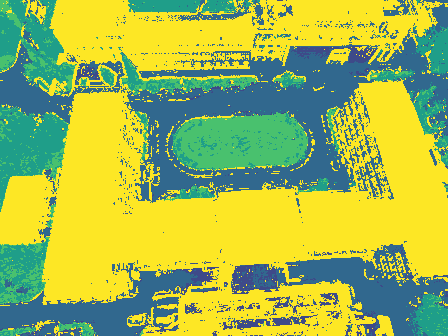
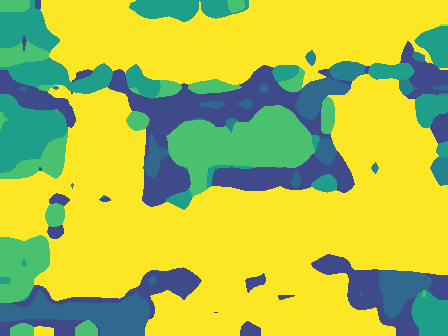
gaoding

diff --git a/dino_splat_ov/asset/vis3/1.html b/dino_splat_ov/asset/vis3/1.html
@@ -8,14 +8,14 @@
     .grid-wrap {
         margin: 0 auto;
         display: grid;
-        grid-template-columns: 1fr 1fr; 
+        grid-template-columns: 1fr 1fr 1fr;
         gap: 8px;
     }
 
     ul {
         list-style: none;
         display: grid;
-        grid-template-columns: 1fr 1fr;
+        grid-template-columns: 1fr 1fr 1fr;
         gap: 8px;
         padding: 0 10px;
 
@@ -43,8 +43,25 @@
 </style>
 
 <ul>
-    <li><p>Origin</p><img src="./P0492.png" alt=""></li>
-    <li><p>DINO.txt</p><img src="./dino_txt.png" alt=""></li>
-    <li><p>with TLP</p><img src="./w_lap.png" alt=""></li>
-    <li><p>with GSUP</p><img src="./w_gsup.png" alt=""></li>
+    <li>
+        <p>Origin</p><img src="./img3.jpg" alt="">
+    </li>
+    <li>
+        <p>baseline(MaskCLIP)</p><img src="./maskclip.png" alt="">
+    </li>
+    <li>
+        <p>w/ QQ && Debais(ClearCLIP)</p><img src="./w_qq.png" alt="">
+
+
+    <li>
+        <p>w/ ResQQ(Ours)</p><img src="./w_resqq.png" alt="">
+    </li>
+        </li>
+
+        <li>
+        <p>w/ SatUp(Ours)</p><img src="./w_satup.png" alt="">
+    </li>
+    <li>
+        <p>w/ CRF Refine</p><img src="./w_all.png" alt="">
+    </li>
 </ul>

diff --git a/model.py b/model.py
@@ -18,17 +18,15 @@ class CLIPResQQ(nn.Module):
         templates: List[str] = None,
         device: Union[str, torch.device] = "cuda" if torch.cuda.is_available() else "cpu",
         jit: bool = False,
-        only_clear: bool = False,
-        upsampler: str = "gfup",
+        upsampler: str = "gsup",
         # ResCLIP 相关参数
-        use_resclip: bool = True,
+        use_resclip: bool = False,
         resclip_alpha: float = 0.5,  # 残差融合权重
         resclip_layer: int = -2,     # 提取中间层 (-2 表示倒数第二层)
     ):
         super().__init__()
         self.device = torch.device(device)
         self.model_name = name
-        self.only_clear = only_clear
         self.use_resclip = use_resclip
         self.resclip_alpha = resclip_alpha
         self.resclip_layer = resclip_layer
@@ -63,7 +61,7 @@ class CLIPResQQ(nn.Module):
             ckpt = torch.load("satup.pth", map_location=self.device)
             self.up.load_state_dict(ckpt, strict=True)
             self.up.eval()
-        elif upsampler == "gsu":
+        elif upsampler == "gsup":
             self.up = GaussianUpsamplerWrapper()
 
         # 4. 视觉投影层 (1x1 conv)

diff --git a/infer.py b/infer.py
@@ -233,7 +233,7 @@ def main():
         "bareland,barren",
         "pavement",
         "road",
-        "water,river",
+        "water,river,pool",
         "tree,forest",
         "grass",
         "cropland,field",
@@ -254,7 +254,7 @@ def main():
     ]
 
     # 加载模型并固定eval
-    model = CLIPResQQ("ViT-B-16", classnames, device=args.device, upsampler="satup" )
+    model = CLIPResQQ("ViT-B-16", classnames, device=args.device, upsampler="aaa" )
     model.eval()
 
     # 创建输出文件夹

diff --git a/bench/maskclip.py b/bench/maskclip.py
@@ -172,4 +172,4 @@ if __name__ == "__main__":
         'background', 'bareland', 'pavement', 'road', 'water',
         'tree', 'grass', 'cropland', 'building'
     ]
-    run_inference("./dino_splat_ov/asset/vis/origin/16_0_2.tif", target_labels,"./dino_splat_ov/asset/vis/maskclip/16_0_2.tif")
+    run_inference("./asset/img3.jpg", target_labels,"./dino_splat_ov/asset/vis3/maskclip.png")
